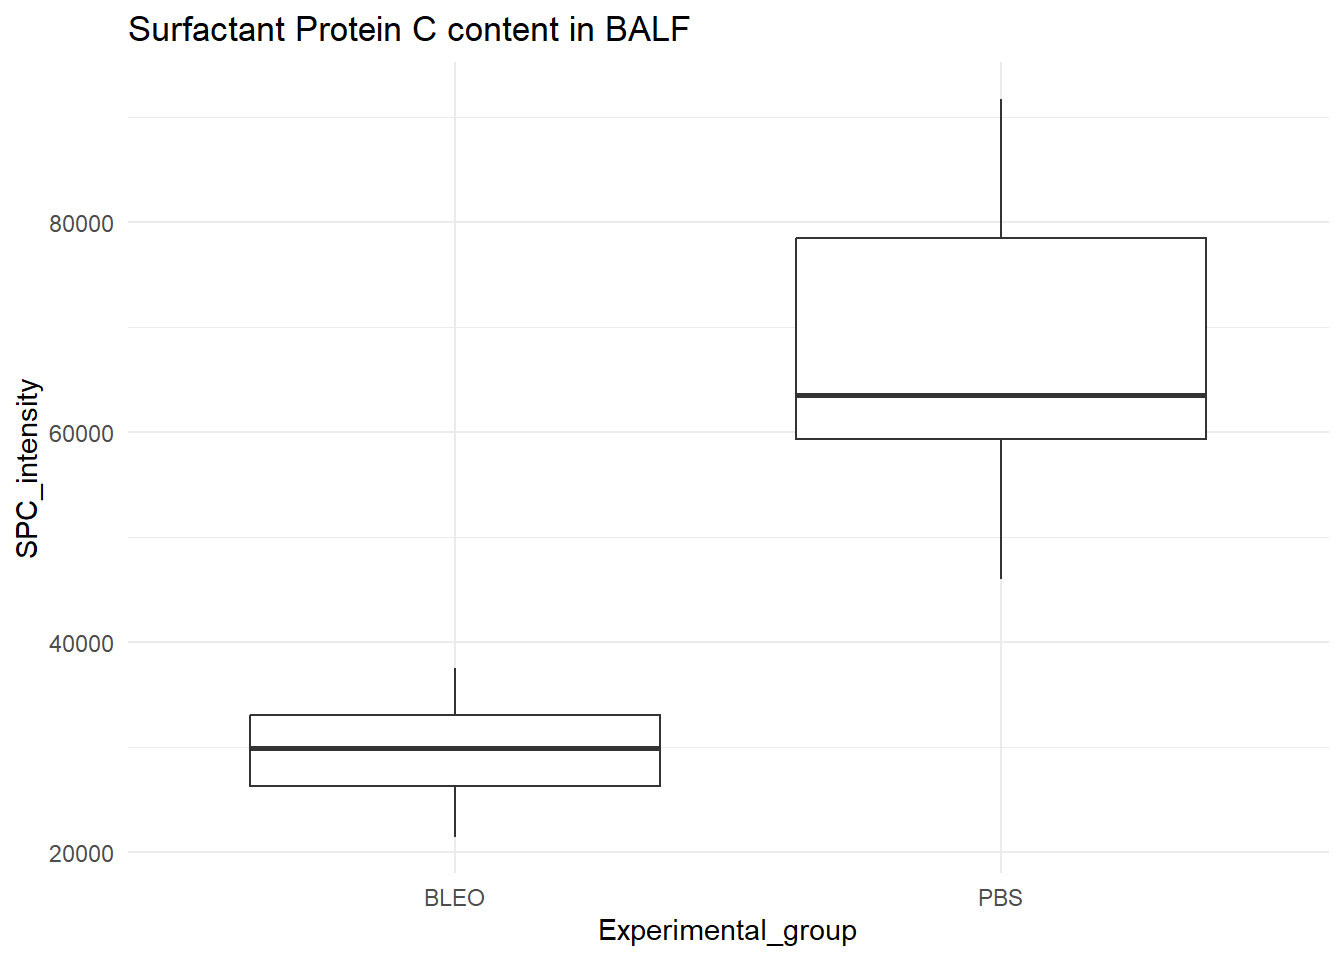
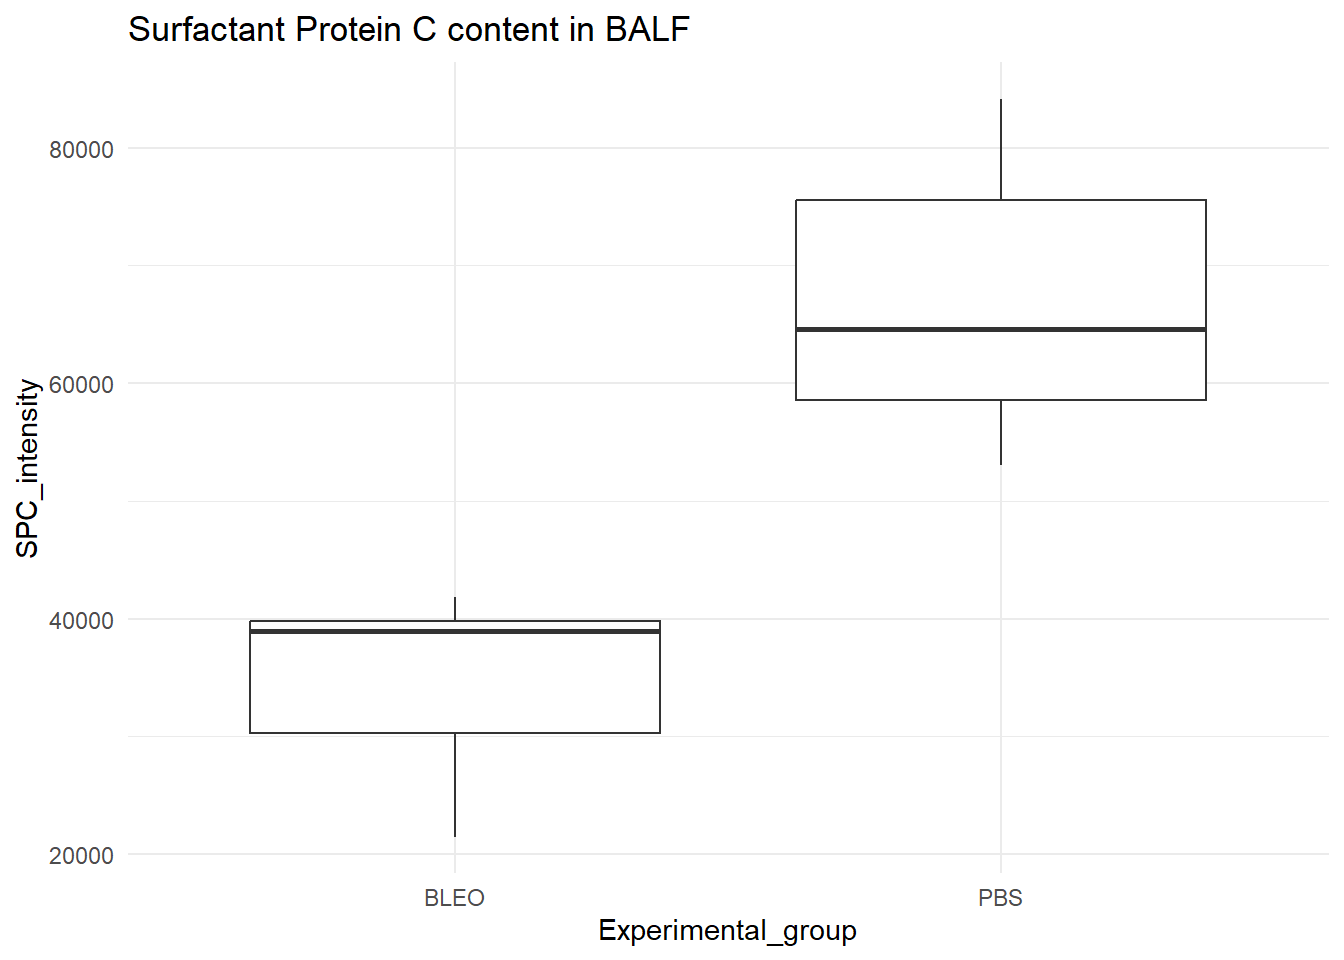
.

diff --git a/docs/Homework-6.html b/docs/Homework-6.html
@@ -299,12 +299,12 @@ BLEO &lt;-rnorm(n=6, mean = 31146, sd = 7724)
 my_frame &lt;- data.frame(PBS,BLEO)
 print(my_frame)</code></pre>
 <pre><code>##        PBS     BLEO
-## 1 83439.83 33278.50
-## 2 63624.20 21459.41
-## 3 58042.04 37524.94
-## 4 46021.21 32192.50
-## 5 63345.55 27573.23
-## 6 91753.23 25853.63</code></pre>
+## 1 53045.58 38099.20
+## 2 79222.56 27644.02
+## 3 64569.34 39839.23
+## 4 84173.35 41864.33
+## 5 56611.67 39789.76
+## 6 64671.94 21488.87</code></pre>
 <p>#Bellow used some tools that are described to be used to determine if
 distribution is normal. Although my sample number is small and perhaps
 not ideal for this type of analysis</p>
@@ -313,10 +313,10 @@ not ideal for this type of analysis</p>
 ##  Shapiro-Wilk normality test
 ## 
 ## data:  PBS
-## W = 0.93783, p-value = 0.6418</code></pre>
+## W = 0.91709, p-value = 0.4846</code></pre>
 <pre class="r"><code>summary(PBS)</code></pre>
 <pre><code>##    Min. 1st Qu.  Median    Mean 3rd Qu.    Max. 
-##   46021   59368   63485   67704   78486   91753</code></pre>
+##   53046   58601   64621   67049   75585   84173</code></pre>
 <pre class="r"><code>hist(PBS)</code></pre>
 <p><img src="Homework-6_files/figure-html/unnamed-chunk-2-1.png" width="672" /></p>
 <pre class="r"><code>qqnorm(PBS)
@@ -327,10 +327,10 @@ qqline(PBS)</code></pre>
 ##  Shapiro-Wilk normality test
 ## 
 ## data:  PBS
-## W = 0.93783, p-value = 0.6418</code></pre>
+## W = 0.91709, p-value = 0.4846</code></pre>
 <pre class="r"><code>summary(BLEO)</code></pre>
 <pre><code>##    Min. 1st Qu.  Median    Mean 3rd Qu.    Max. 
-##   21459   26284   29883   29647   33007   37525</code></pre>
+##   21489   30258   38944   34788   39827   41864</code></pre>
 <pre class="r"><code>hist(BLEO)</code></pre>
 <p><img src="Homework-6_files/figure-html/unnamed-chunk-3-1.png" width="672" /></p>
 <pre class="r"><code>qqnorm(BLEO)
@@ -347,18 +347,18 @@ Experimental_group &lt;- c(rep(&quot;PBS&quot;, length(PBS)),rep(&quot;BLEO&quot
 d_frame &lt;- data.frame(SPC_intensity, Experimental_group)
 print(d_frame)</code></pre>
 <pre><code>##    SPC_intensity Experimental_group
-## 1       83439.83                PBS
-## 2       63624.20                PBS
-## 3       58042.04                PBS
-## 4       46021.21                PBS
-## 5       63345.55                PBS
-## 6       91753.23                PBS
-## 7       33278.50               BLEO
-## 8       21459.41               BLEO
-## 9       37524.94               BLEO
-## 10      32192.50               BLEO
-## 11      27573.23               BLEO
-## 12      25853.63               BLEO</code></pre>
+## 1       53045.58                PBS
+## 2       79222.56                PBS
+## 3       64569.34                PBS
+## 4       84173.35                PBS
+## 5       56611.67                PBS
+## 6       64671.94                PBS
+## 7       38099.20               BLEO
+## 8       27644.02               BLEO
+## 9       39839.23               BLEO
+## 10      41864.33               BLEO
+## 11      39789.76               BLEO
+## 12      21488.87               BLEO</code></pre>
 </div>
 <div id="code-to-analyze-the-data.-used-t-test." class="section level1">
 <h1>Code to analyze the data. Used t-test.</h1>
@@ -370,13 +370,13 @@ print(t.test)</code></pre>
 ##  Welch Two Sample t-test
 ## 
 ## data:  SPC_intensity by Experimental_group
-## t = -5.2233, df = 6.159, p-value = 0.001818
+## t = -5.3333, df = 8.7295, p-value = 0.0005235
 ## alternative hypothesis: true difference in means between group BLEO and group PBS is not equal to 0
 ## 95 percent confidence interval:
-##  -55774.52 -20340.09
+##  -46010.43 -18512.58
 ## sample estimates:
 ## mean in group BLEO  mean in group PBS 
-##           29647.03           67704.34</code></pre>
+##           34787.57           67049.07</code></pre>
 </div>
 <div id="generate-graph-with-the-data." class="section level1">
 <h1>Generate graph with the data.</h1>
@@ -410,21 +410,23 @@ for (i in 1:10) {
   #set up to print the p.value in each loop 
   print(t_test$p.value)
 }</code></pre>
-<pre><code>## [1] 6.488157e-05
-## [1] 0.0302329
-## [1] 0.003560446
-## [1] 3.305496e-06
-## [1] 0.00803443
-## [1] 9.717801e-05
-## [1] 0.001402202
-## [1] 0.0003194318
-## [1] 2.023236e-05
-## [1] 0.03941872</code></pre>
+<pre><code>## [1] 0.01941394
+## [1] 0.0002779773
+## [1] 3.326848e-05
+## [1] 0.0005304
+## [1] 0.01115896
+## [1] 0.005638032
+## [1] 0.001094564
+## [1] 0.007979273
+## [1] 0.01339123
+## [1] 0.005961892</code></pre>
 <pre class="r"><code>#used which function to determine which of the loops came out with significant value (&lt;0.05)
   which(p_values&lt;=0.05)</code></pre>
 <pre><code>##  [1]  1  2  3  4  5  6  7  8  9 10</code></pre>
 <p>#what happens if you were to start with a small sample size and then
 re-run your analysis? Would you still get a significant result?</p>
+<p>#In general when doing the loops. The proportion of significant p
+value was lower in the the case with smaller sample size.</p>
 <pre class="r"><code>p_values &lt;- numeric(10)
 
 for (i in 1:10) {
@@ -439,21 +441,47 @@ for (i in 1:10) {
   p_values[i] &lt;- t_test$p.value
   print(t_test$p.value)
 }</code></pre>
-<pre><code>## [1] 0.009414424
-## [1] 0.000191604
-## [1] 0.09897118
-## [1] 0.1395168
-## [1] 0.02919039
-## [1] 0.01342052
-## [1] 0.001813153
-## [1] 0.1461985
-## [1] 0.01756974
-## [1] 0.0653405</code></pre>
+<pre><code>## [1] 0.162924
+## [1] 0.08063394
+## [1] 0.1655123
+## [1] 0.02834004
+## [1] 0.1040771
+## [1] 0.05228381
+## [1] 0.06176371
+## [1] 0.000753398
+## [1] 0.01209245
+## [1] 0.003029478</code></pre>
 <pre class="r"><code>#bellow are the p values that are significant
   which(p_values&lt;=0.05)</code></pre>
-<pre><code>## [1] 1 2 5 6 7 9</code></pre>
-<p>#In general when doing the loops. The proportion of significant p
-value was lower in the the case with smaller sample size.</p>
+<pre><code>## [1]  4  8  9 10</code></pre>
+<p>#Bellow how it would look with a sample size of 10.</p>
+<pre class="r"><code>p_values &lt;- numeric(10)
+
+for (i in 1:10) {
+  PBS &lt;-rnorm(n=10, mean = 61251, sd = 15314)
+  BLEO &lt;-rnorm(n=10, mean = 31146, sd = 7724)
+  
+  SPC_intensity &lt;- c(PBS,BLEO)
+  Experimental_group &lt;- c(rep(&quot;PBS&quot;, length(PBS)),rep(&quot;BLEO&quot;,length(BLEO))) 
+  d_frame &lt;- data.frame(SPC_intensity, Experimental_group)
+  
+  t_test &lt;-t.test(SPC_intensity~Experimental_group, data=d_frame)
+  p_values[i] &lt;- t_test$p.value
+  print(t_test$p.value)
+}</code></pre>
+<pre><code>## [1] 0.0001216098
+## [1] 0.0001478612
+## [1] 4.760486e-05
+## [1] 4.456088e-05
+## [1] 7.85629e-05
+## [1] 0.0008251127
+## [1] 1.092556e-05
+## [1] 9.191582e-06
+## [1] 6.324016e-05
+## [1] 2.353193e-05</code></pre>
+<pre class="r"><code>#bellow are the p values that are significant
+  which(p_values&lt;=0.05)</code></pre>
+<pre><code>##  [1]  1  2  3  4  5  6  7  8  9 10</code></pre>
 </div>
 
 
